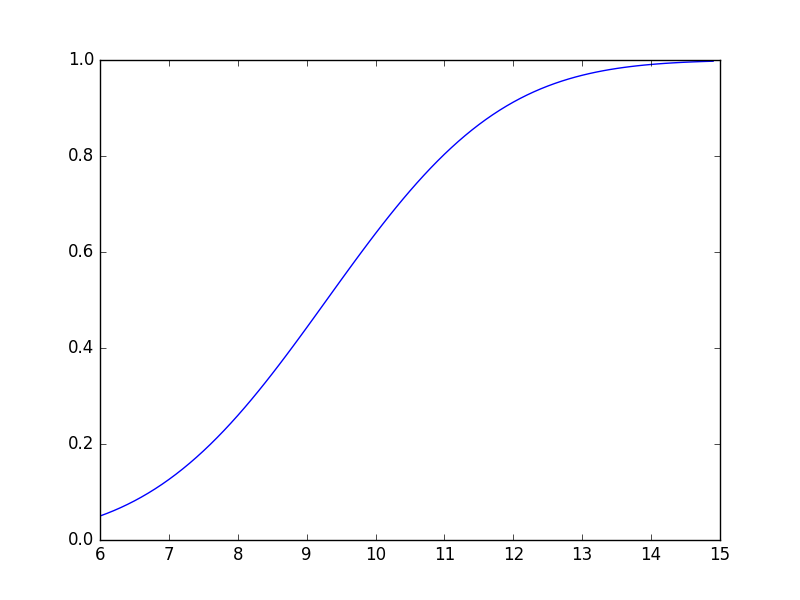
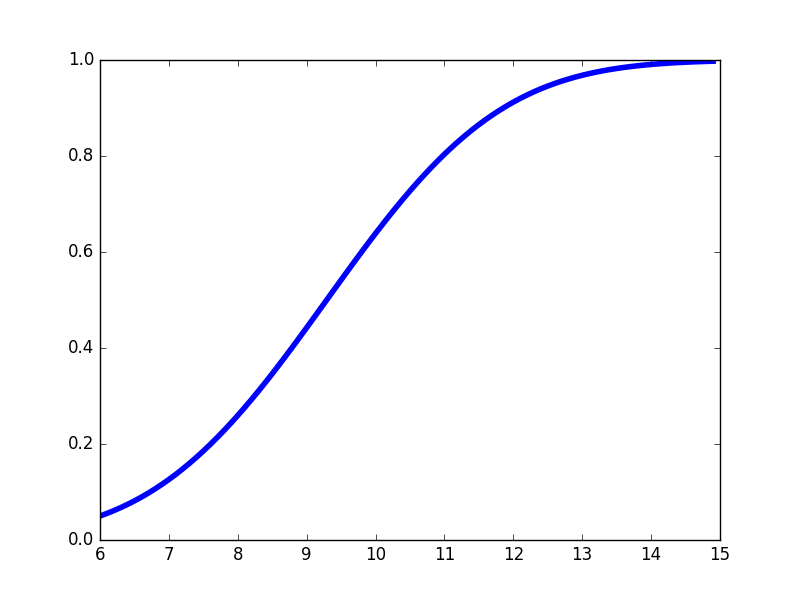
fixed typos in hw and made graph line thicker

diff --git a/week7/hw6.tex b/week7/hw6.tex
@@ -315,7 +315,7 @@ Suppose we face a pattern recognition problem, where the data consist of a singl
     \hline
     $p(x\mid \theta_0)$   &0&0.02&0.02&0.02&0.08&0.23&0.02&0.02&0.15&0.22&0.12&0.02&0.02&0.03&0.03&0\\
     $p(x\mid \theta_6)$    &0&0&0&0&0.02&0.11&0.01&0.01&0.08&0.17&0.2&0.04&0.08&0.12&0.13&0.03\\
-    $\frac{p(x\mid \theta_0)}{p(x\mid \theta_6)}$ &undef&1000&1000&1000&4&2.1&2&2&1.9&1.3&0.6&0.5&0.25&0.25&0.23&0\\
+    $\frac{p(x\mid \theta_0)}{p(x\mid \theta_6)}$ &undef&$\infty$&$\infty$&$\infty$&4&2.1&2&2&1.9&1.3&0.6&0.5&0.25&0.25&0.23&0\\
     \end{tabular}%
 }
 \end{table}
@@ -324,7 +324,8 @@ Let $H_0=\theta_0$:"$0$" and $H_1=\theta_6$:"$6$".  Next find a critical value, 
 
 \[ \frac{p(x\mid H_0)}{p(x\mid H_6)} > C \]
 
-The problem specifies that $Pr(\text{Reject }H_0 \mid H_0)=.1$  Looking at the table, its clear that the test shoud be specified.
+The problem specifies that $Pr(\text{Reject }H_0 \mid H_0)=.1$  Looking at the table, it is clear that the test shoud be specified.
+
 
 \[ \frac{p(x\mid H_0)}{p(x\mid H_6)} > .5 \]
 
@@ -358,14 +359,14 @@ Set up the test so that the model for $\overline{X} \sim N(\mu, \frac{\sigma^2}{
 &= P[Z > \Big(\frac{(C- \mu_0)}{\frac{\sigma_0}{\sqrt{n}}}\Big) ]
 \end{align}
 
-Notice that in (2) the left hand site of the probability is the standarized normal, so $Z \sim N(0,1)$.  Then let $z_{1-\alpha}$ be the $(1-\alpha)$th percentage point of the standrd normal, i.e $P(Z \leq z_{1-\alpha}) = 1-\alpha$.  The it is possible to find $P(Z>z_{1-\alpha}) = \alpha$ using a "Z table".  Then it is possible to find,
+Notice that in (2) the left hand site of the probability is the standarized normal, so $Z \sim N(0,1)$.  Then let $z_{1-\alpha}$ be the $(1-\alpha)$th percentage point of the standard normal, i.e $P(Z \leq z_{1-\alpha}) = 1-\alpha$.  The it is possible to find $P(Z>z_{1-\alpha}) = \alpha$ using a "Z table".  Then it is possible to find,
 \[C = \mu_0 + z_{1-\alpha}\Big(\frac{\sigma_0}{\sqrt{n}}\Big).\]
 
 In the context of this problem, $\alpha=.05$, $n=1$, $\mu_0=6$ and $\sigma^2=4$.  Furthermore, from the table in the back of Rice, $z_{.95} = 1.645$.  These values give us the result,
 
 \[ C = 6 + 1.645(2) = 9.29. \]
 
-In general, the model is set up so $H_0$ is rejected when $\overline{X} > C$, which is the Most Powerful test.
+In general, the model is set up so $H_0$ is rejected when $\overline{X} > C$.  By Neyman-Pearson Lemma, no test wuth same or lower $\alpha$ has a lower $\beta$ than the likelihood ratio with the given $\alpha=.05$.
 
 Evaluating this specific case,
 \[ \overline{X} = 6 < C = 9.29 \]
@@ -387,7 +388,9 @@ Therefore the power is given
 \[ \pi = 1- \beta = .4424 \]
 
 \item Suppose that instead of the above $H_1$, we have $H_1$: $\mu=\mu_1$ and $\sigma^2=4$, where $\mu_1 > 6$.  Find and graph the power function \marginnote{$\Phi (\frac{x-\mu}{\sigma}) = \frac{1}{2}[1+ \erf(\frac{x-\mu}{\sigma\sqrt{2}})]$}.
-\[ \pi = f(\mu_1) = 1 - \frac{1}{2}[1 + \erf\Big(\frac{9.29-\mu_1}{2\sqrt{2}}\Big)] \]
+\[ \pi = f(\mu_1) = 1 - \frac{1}{2}[1 + \erf\Big(\frac{9.29-\mu_1}{2\sqrt{2}}\Big)] \text{ , } \mu_i > 6 \]
+
+\marginnote{This function approaches 1 as $\mu_1$ approaches $\infty$.}
 \includegraphics{power}
 
 \end{enumerate}

diff --git a/week7/power.py b/week7/power.py
@@ -16,6 +16,6 @@ def power_fnc(x):
 
 
 t1 = np.arange(6.0, 15.0, 0.1)
-plt.plot(t1, power_fnc(t1), label="")
+plt.plot(t1, power_fnc(t1), lw=4, label="")
 
 plt.show()
